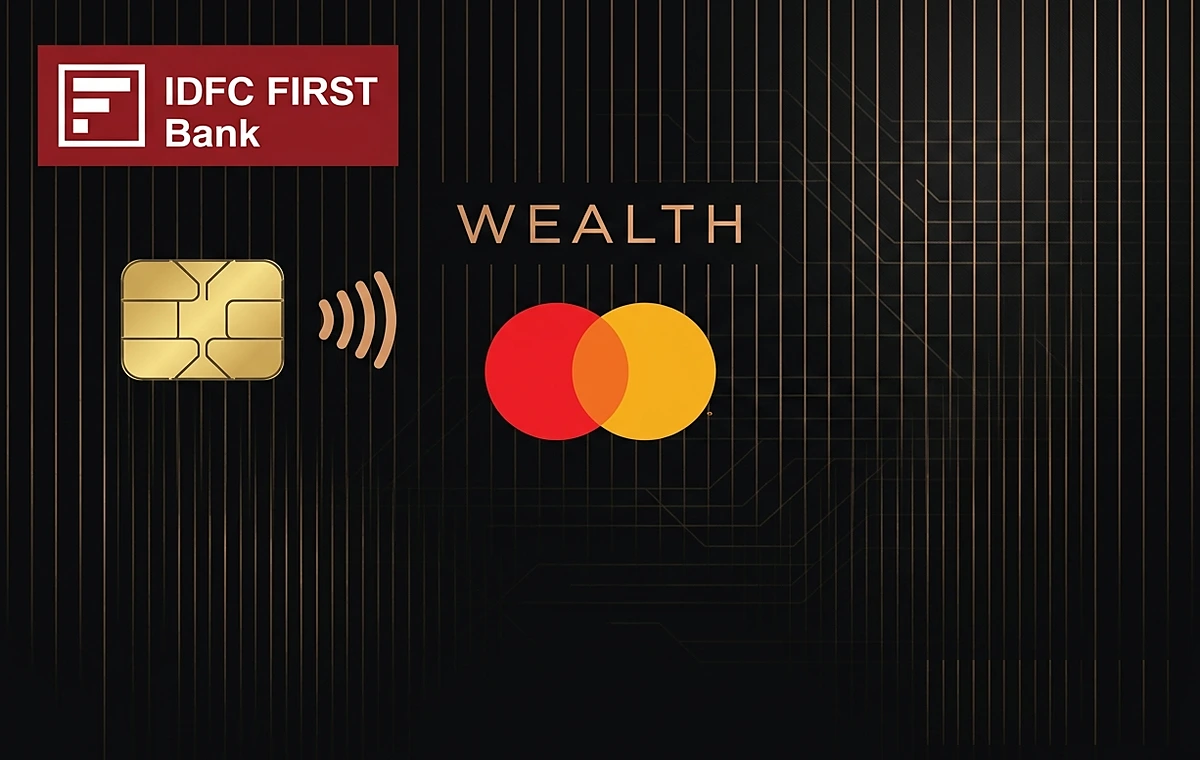
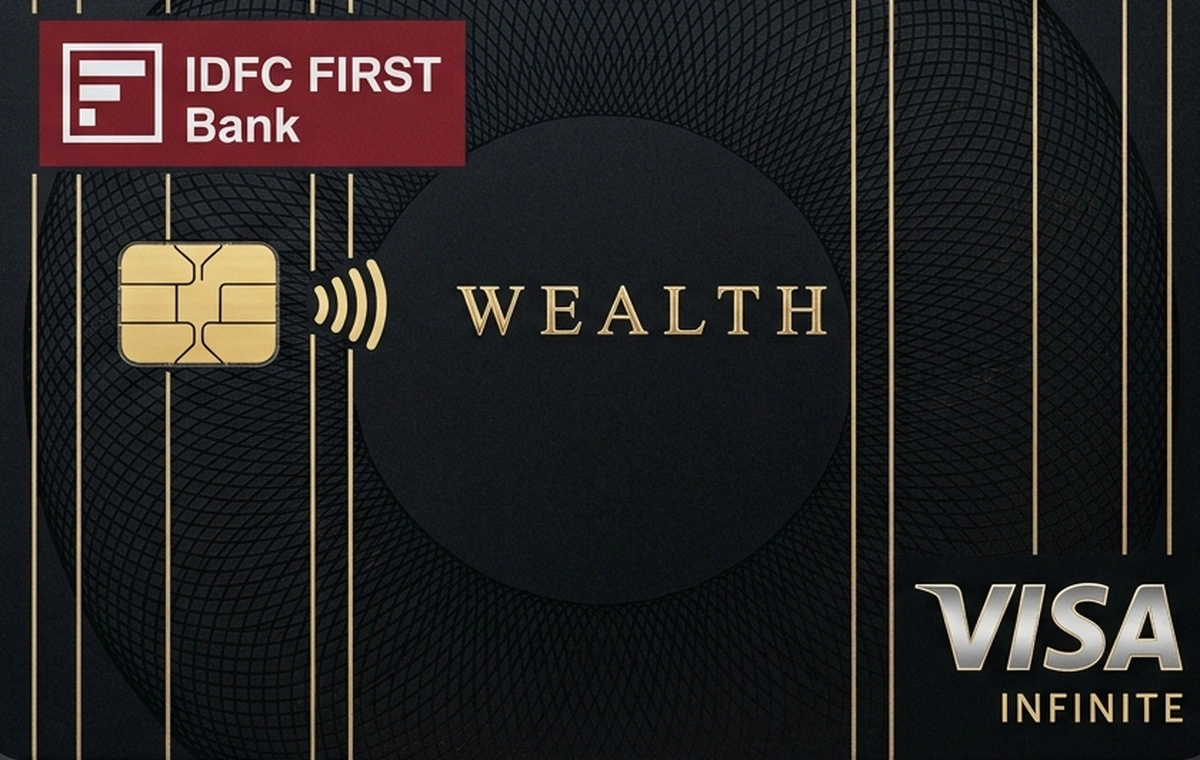
feat(cards): Phase 8 IDFC FIRST Bank credit cards authentic physical replicas

diff --git a/src/utils/cardRewardEngine.ts b/src/utils/cardRewardEngine.ts
@@ -790,6 +790,50 @@ export const CARD_PERK_RULES: CardPerkRule[] = [
     ],
   },
 
+  // ── IDFC FIRST Bank Cards
+  {
+    matchKeys: ["idfc first wealth", "idfc wealth", "first wealth"],
+    cardDisplayName: "IDFC FIRST Wealth Credit Card",
+    merchantPerks: {
+      bookmyshow: { returnPct: 50.0, perkType: "discount", description: "Buy 1 Get 1 Free on BookMyShow (up to ₹500 off twice a month)", badge: "BOGO ₹500 Movies" },
+      makemytrip: { returnPct: 2.5, perkType: "reward_points", description: "10X Reward Points on monthly spends above ₹30,000" },
+      swiggy: { returnPct: 2.0, perkType: "reward_points", description: "6X Reward Points on dining & food delivery" },
+      zomato: { returnPct: 2.0, perkType: "reward_points", description: "6X Reward Points on culinary experiences" },
+    },
+    categoryPerks: {
+      "Entertainment": { returnPct: 50.0, perkType: "discount", description: "Buy 1 Get 1 free movie ticket up to ₹500 twice every month on BMS" },
+      "Travel": { returnPct: 2.5, perkType: "reward_points", description: "4 complimentary domestic and international airport & spa visits per quarter" },
+      "Food & Dining": { returnPct: 2.0, perkType: "reward_points", description: "6X reward points on all dining transactions" },
+    },
+    defaultOnlineReturnPct: 1.5,
+    defaultOfflineReturnPct: 1.0,
+    specialPerks: [
+      "10X Reward Points on incremental spends above ₹30,000/month (points never expire)",
+      "4 complimentary domestic & international airport lounge visits + 4 spa visits per quarter",
+      "Buy 1 Get 1 free movie ticket up to ₹500 on BookMyShow twice every month",
+      "Low dynamic interest APR starting from 9% p.a. with 1.5% low forex markup",
+    ],
+  },
+  {
+    matchKeys: ["idfc first wow", "idfc wow", "first wow", "wow card"],
+    cardDisplayName: "IDFC FIRST WOW! Credit Card",
+    merchantPerks: {
+      makemytrip: { returnPct: 1.5, perkType: "reward_points", description: "Reward points on travel with 0% foreign exchange markup" },
+      amazon: { returnPct: 1.0, perkType: "reward_points", description: "Reward points that never expire on all retail spends" },
+    },
+    categoryPerks: {
+      "International Spends": { returnPct: 3.5, perkType: "cashback", description: "0% zero forex markup fee across all foreign currencies worldwide" },
+      "Travel": { returnPct: 3.5, perkType: "cashback", description: "Zero forex markup on all overseas travel bookings and merchant spends" },
+    },
+    defaultOnlineReturnPct: 1.0,
+    defaultOfflineReturnPct: 1.0,
+    specialPerks: [
+      "Zero Forex markup (0% foreign currency fee) on all international transactions",
+      "100% guaranteed approval against Fixed Deposit earning attractive interest",
+      "Lifetime Free (LTF) with zero annual fee and reward points that never expire",
+    ],
+  },
+
   // ── Standard Chartered Cards
   {
     matchKeys: ["ultimate", "standard chartered ultimate", "sc ultimate"],

diff --git a/src/utils/cardAssets.ts b/src/utils/cardAssets.ts
@@ -984,20 +984,23 @@ export const CARD_ART_PRESETS: CardArtPreset[] = [
   // ── IDFC FIRST Bank ─────────────────────────────────────────────────────────
   {
     id: "idfc-wealth",
-    name: "IDFC FIRST Wealth",
+    name: "IDFC FIRST Wealth Credit Card",
     bankName: "IDFC FIRST Bank",
     network: "Visa",
     category: "lifestyle",
     tags: [
       "idfc first wealth card",
+      "idfc first wealth credit card",
       "idfc first wealth",
       "first wealth card",
+      "idfc wealth credit card",
       "idfc wealth card",
       "idfc wealth",
       "first wealth",
+      "idfc credit card",
       "wealth",
     ],
-    bgGradient: "linear-gradient(135deg, #1e1b4b 0%, #312e81 50%, #0f0d26 100%)",
+    bgGradient: "linear-gradient(135deg, #09090b 0%, #18181b 45%, #27272a 75%, #0f172a 100%)",
     accentColor: "#9e1b32",
     textColor: "#ffffff",
     badgeText: "FIRST WEALTH",
@@ -1007,16 +1010,26 @@ export const CARD_ART_PRESETS: CardArtPreset[] = [
   },
   {
     id: "idfc-wow",
-    name: "IDFC FIRST WOW (Forex)",
+    name: "IDFC FIRST WOW! Credit Card",
     bankName: "IDFC FIRST Bank",
     network: "Visa",
     category: "travel",
-    tags: ["idfc wow", "wow card", "wow"],
-    bgGradient: "linear-gradient(135deg, #042f2e 0%, #0d9488 50%, #0f766e 100%)",
-    accentColor: "#99f6e4",
+    tags: [
+      "idfc first wow credit card",
+      "idfc first wow",
+      "idfc wow credit card",
+      "idfc wow card",
+      "idfc wow",
+      "wow credit card",
+      "wow card",
+      "first wow",
+      "wow",
+    ],
+    bgGradient: "linear-gradient(135deg, #18181b 0%, #27272a 50%, #09090b 100%)",
+    accentColor: "#9e1b32",
     textColor: "#ffffff",
-    badgeText: "FIRST WOW · ZERO FOREX",
-    patternType: "wave",
+    badgeText: "FIRST WOW · 0% FOREX",
+    patternType: "lines",
     imageUrl: "/cards/idfc-wow.png",
     officialImageUrl: "https://www.idfcfirst.bank.in/content/dam/idfcfirstbank/images/wow-rewamp/Banner-Desktop-002-new-updated.webp",
   },

diff --git a/src/__tests__/creditCardArtwork.test.ts b/src/__tests__/creditCardArtwork.test.ts
@@ -88,6 +88,10 @@ describe("Credit Card Artwork & Variant Visuals Engine", () => {
       expect(idfc?.id).toBe("idfc-wealth");
       expect(idfc?.imageUrl).toBe("/cards/idfc-wealth.png");
 
+      const idfcWow = getMatchingCardPreset("IDFC FIRST WOW Credit Card", "Visa");
+      expect(idfcWow?.id).toBe("idfc-wow");
+      expect(idfcWow?.imageUrl).toBe("/cards/idfc-wow.png");
+
       const sbiSave = getMatchingCardPreset("SBI SimplySAVE RuPay", "RuPay");
       expect(sbiSave?.id).toBe("sbi-simplysave");
       expect(sbiSave?.imageUrl).toBe("/cards/sbi-simplysave.png");
@@ -311,6 +315,7 @@ describe("Credit Card Artwork & Variant Visuals Engine", () => {
       { query: "ICICI Sapphiro Master Credit Card", expectedId: "icici-sapphiro", expectedImage: "/cards/icici-sapphiro.png" },
       { query: "Kotak Air + Credit Card", expectedId: "kotak-air-plus", expectedImage: "/cards/kotak-air-plus.png" },
       { query: "IDFC First Wealth Card", expectedId: "idfc-wealth", expectedImage: "/cards/idfc-wealth.png" },
+      { query: "IDFC FIRST WOW Credit Card", expectedId: "idfc-wow", expectedImage: "/cards/idfc-wow.png" },
       { query: "Federal Scapia Credit Card", expectedId: "federal-scapia", expectedImage: "/cards/federal-scapia.png" },
       { query: "Axis Bank Airtel Credit Card", expectedId: "axis-airtel", expectedImage: "/cards/axis-airtel.png" },
       { query: "Axis Bank Atlas Credit Card", expectedId: "axis-atlas", expectedImage: "/cards/axis-atlas.png" },

diff --git a/src/components/tabs/CreditTab.tsx b/src/components/tabs/CreditTab.tsx
@@ -7493,6 +7493,8 @@ function CCModal({ onClose, onSave, initial = null, existingGroups = [], saving 
                     <option value="Axis Magnus" />
                     <option value="Axis Airtel" />
                     <option value="Federal Scapia" />
+                    <option value="IDFC FIRST Wealth" />
+                    <option value="IDFC FIRST WOW!" />
                     <option value="Kotak League" />
                     <option value="IndusInd Legend" />
                     <option value="AU Zenith+" />

diff --git a/src/components/credit/CardArtPickerModal.tsx b/src/components/credit/CardArtPickerModal.tsx
@@ -64,6 +64,7 @@ export function CardArtPickerModal({
     { id: "sbi", label: "SBI" },
     { id: "axis", label: "Axis" },
     { id: "hsbc", label: "HSBC" },
+    { id: "idfc", label: "IDFC FIRST" },
     { id: "federal", label: "Federal / Scapia" },
     { id: "amex", label: "Amex" },
     { id: "kotak", label: "Kotak" },
